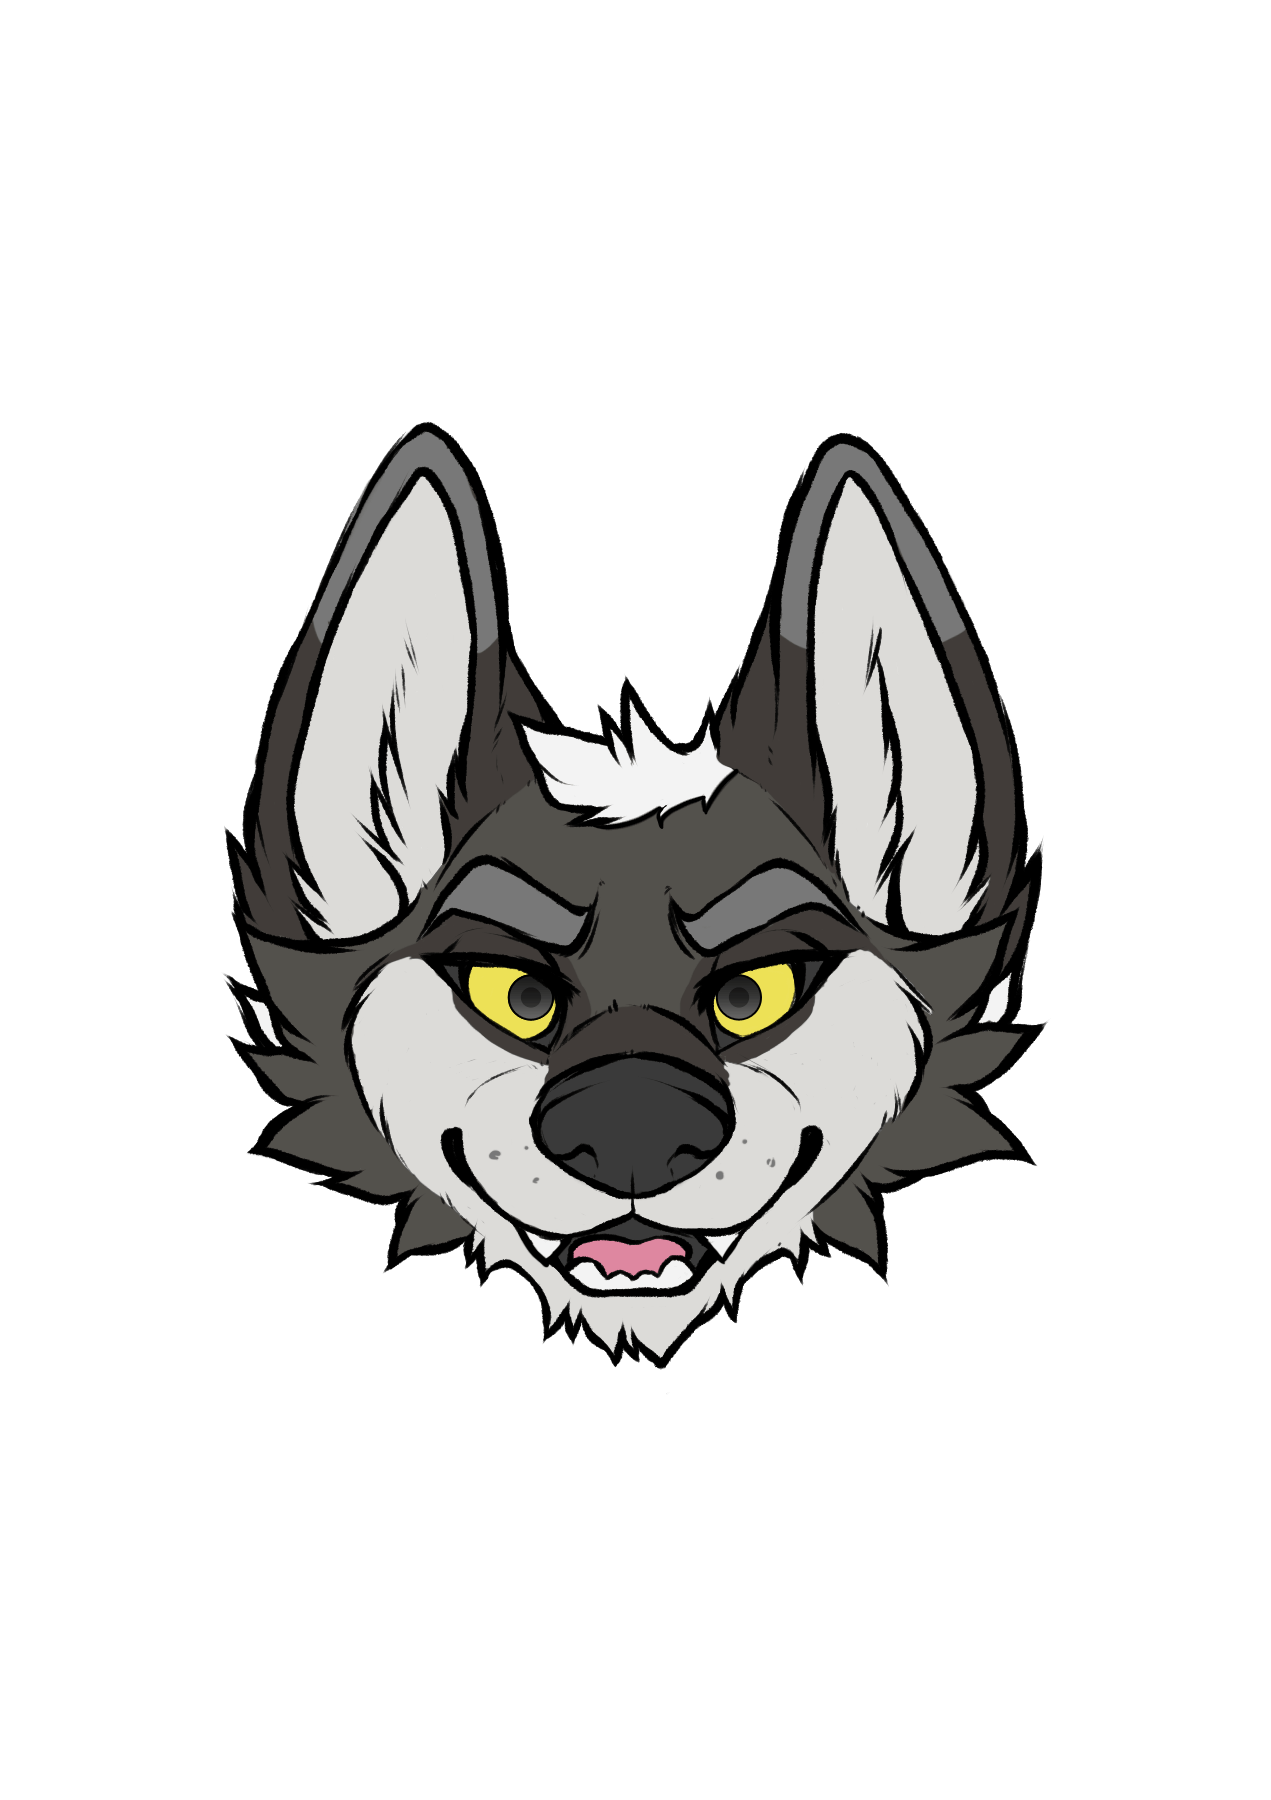
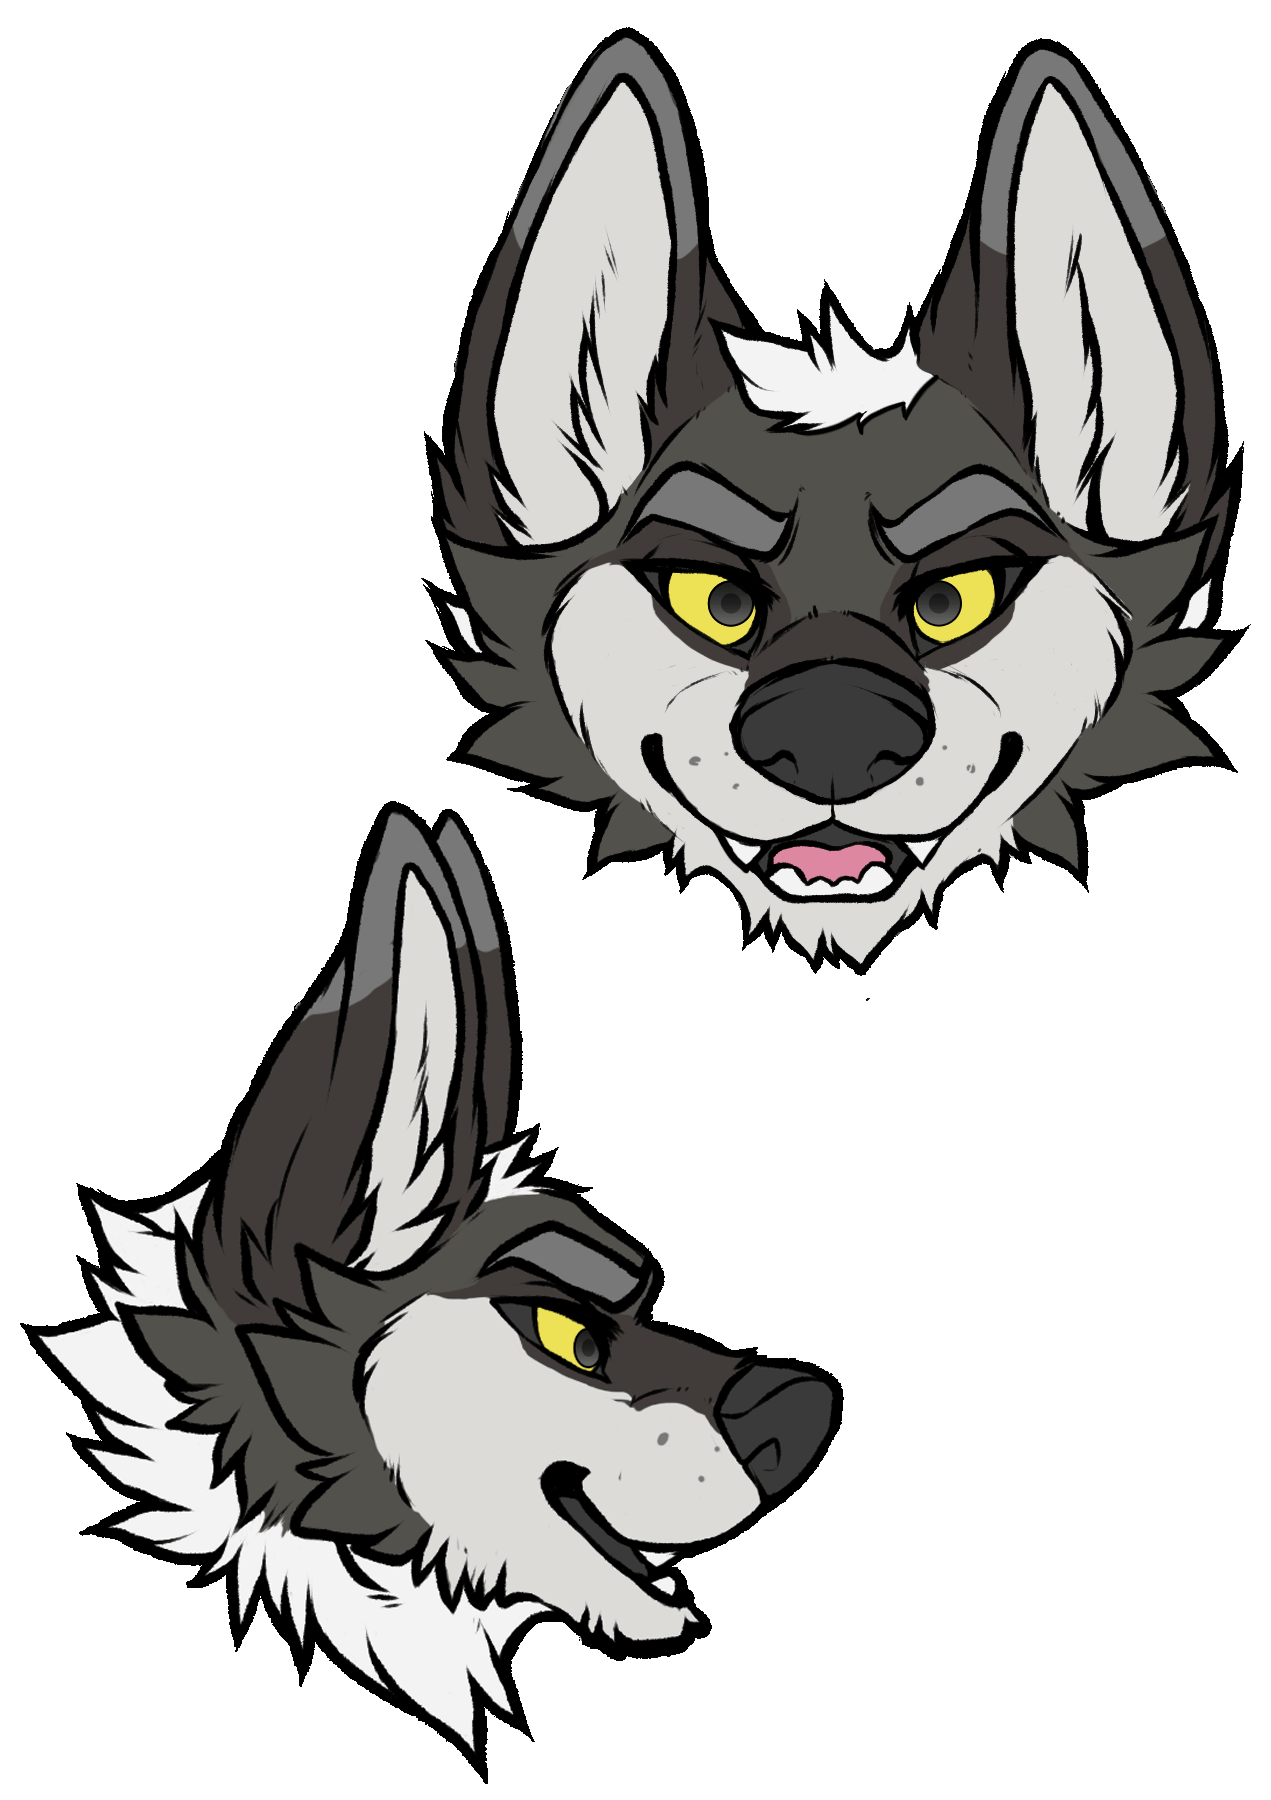
Updated ref sheet page

diff --git a/css/amdek.css b/css/amdek.css
@@ -28,10 +28,10 @@ body {
 }
 
 #screen{
-    -webkit-animation: pulse 10s ease infinite;
+    /* -webkit-animation: pulse 10s ease infinite;
     -z-animation: pulse 10s ease infinite;
     -o-animation: pulse 10s ease infinite;
-    animation: pulse 10s ease infinite;
+    animation: pulse 10s ease infinite; */
 
 }
 
@@ -53,10 +53,29 @@ body {
     animation: rainbow 18s ease infinite;
 }
 
-#arufront{
-   top: 160px;
-   width: 275px;
-    left: 100px;
+#imgref{
+    position: absolute;
+    top:32px;
+}
+
+#ref-front{
+    top:487px;
+    left: 750px;
+}
+
+#ref-back{
+    top:540px;
+    left: 755px;
+}
+
+#ref-head{
+    top:545px;
+    left: 807px;
+}
+
+#ref-side{
+    top:537px;
+    left: 703px;
 }
 
 /* CLASSES */
@@ -68,6 +87,13 @@ body {
     background-color: #53514c;
 }
 
+.refbutton{
+    position: absolute;
+    height: 50px;
+    width: 50px;
+    cursor: pointer;
+
+}
 
 .amdek {
     width: 876px;
@@ -78,7 +104,25 @@ body {
 
 .aru {
     position: absolute;
-    transform: rotate3d(-0.3,1,0,-30deg);
+    top: 160px;
+    width: 285px;
+    left: 100px;
+    -webkit-transition: all .5s; /* Safari */
+    transition: all .5s;
+    transition-timing-function: ease;
+    transform: rotate3d(1,-1,-0.1,30deg);
+}
+
+.aru:hover{
+    transform: rotate3d(0,0,-0,0);
+    width: 500px;
+}
+
+.keeb{
+    position: absolute;
+    left: -150px;
+    transform: rotate(5deg);
+    top: 150px;
 }
 
 /* ANIMATIONS */

diff --git a/amdek.html b/amdek.html
@@ -17,18 +17,31 @@
         <div class="hell">
             <h1>Welcome to h e l l</h1>
         </div>
-        
-        <div id="screen">
-            <img class="amdek" src="img/amdekscreen.png">
-            <img class="aru" id="arufront" src="img/aru-f.png">
-        </div>
+        <div id="imgref">
+            <div id="kb">
+                <img class="keeb" src="img/m.png">
+            </div>
+            <div id="screen">
+                <img class="amdek" src="img/amdekscreen.png">
+                <img class="aru" id="aru" src="img/aru-f.png">
+            </div>
+            <div class="refbutton" id="ref-front"></div>
+            <div class="refbutton" id="ref-back"></div>
+            <div class="refbutton" id="ref-head"></div>
+            <div class="refbutton" id="ref-side"></div>
 
-        <img style="position: absolute; width: 800px;top:150px; left: 100px;" src="img/construction.png">
+        </div>
+        <!--img style="position: absolute; width: 800px;top:150px; left: 100px;" src="img/construction.png">-->
+
 
     </div>
 
 
 
 </body>
+
+<script src='https://cdnjs.cloudflare.com/ajax/libs/jquery/2.1.3/jquery.min.js'></script>
+<script src="js/bootstrap.min.js"></script>
+<script src="js/amdek.js"></script>
 
 </html>

diff --git a/js/amdek.js b/js/amdek.js
@@ -1,0 +1,25 @@
+$('#ref-front').on({
+    'click': function(){
+        $('#aru').attr('src','img/aru-f.png');
+    }
+});
+
+$('#ref-back').on({
+    'click': function(){
+        $('#aru').attr('src','img/aru-b.png');
+    }
+});
+
+
+$('#ref-head').on({
+    'click': function(){
+        $('#aru').attr('src','img/aru-h.png');
+    }
+});
+
+
+$('#ref-side').on({
+    'click': function(){
+        $('#aru').attr('src','img/aru-l.png');
+    }
+});
